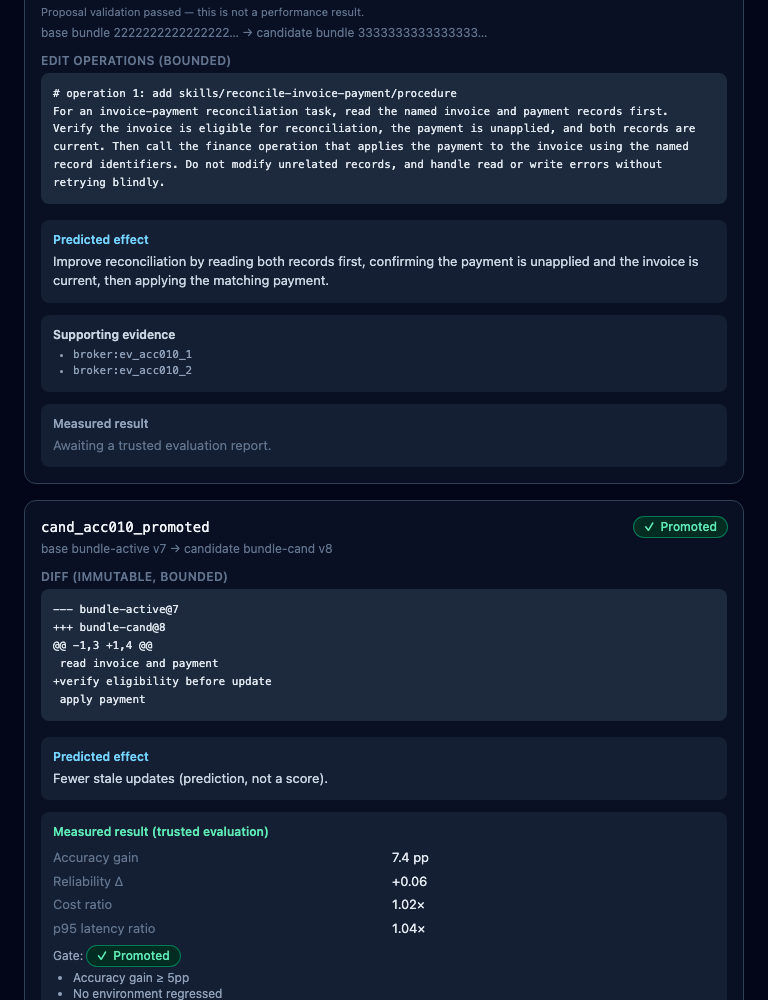
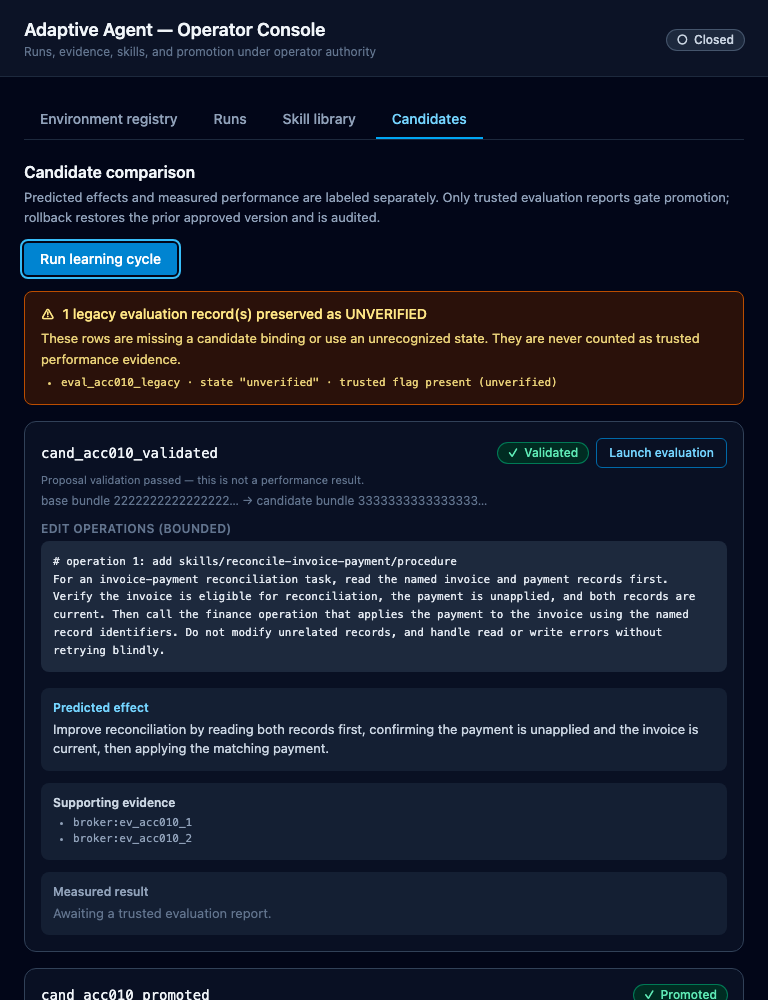
fix(console): single modal keydown listener verified; real ref wiring and exact browser focus assertions
- ui.Modal: panel listener add/remove REMOVED (one document keydown listener; the duplicate ran Tab wrap and Escape twice); activePanel leftover removed; read back verified
- CandidatesView: learningButtonRef now attached to the real LearningCycleButton button (ref prop threaded); LearningCycleModal forwards returnFocusTo into the inner Modal (read back verified)
- acc010-browser-qa: focus-return asserted by EXACT identity against the real learning-cycle button (isConnected + title as accessible name) after ONE trusted page.keyboard.press(Escape); process exits nonzero on failure; synthetic dispatches, escapeProbe and CDP getEventListeners diagnostics removed
- direct Modal unit test: Escape fires onClose exactly once; Tab wraps last->first; Shift+Tab wraps first->last (exact element assertions)
- 71/71 tests, tsc clean, build clean; live browser QA rerun green (widths 375/768/1440 no overflow; cancel success/failure; learning carry; verify {dialogGone:true, exactFocusReturn:true})

diff --git a/console/src/ui/qa-regressions.test.tsx b/console/src/ui/qa-regressions.test.tsx
@@ -161,6 +161,56 @@ describe("qa regressions: createRun recovery and honesty", () => {
     expect(await screen.findByText(/Proposal validation passed — this is not a performance result/)).toBeInTheDocument();
   });
 
+  it("Modal directly: Escape fires onClose exactly once; Tab wraps last->first and Shift+Tab first->last", async () => {
+    const { Modal } = await import("../components/ui");
+    const onClose = vi.fn();
+    const firstRef = { current: null as HTMLInputElement | null };
+    const lastRef = { current: null as HTMLButtonElement | null };
+    const { rerender } = render(
+      <Modal open title="Unit" onClose={onClose} returnFocusTo={{ current: null }}>
+        <form>
+          <input
+            aria-label="First field"
+            ref={(el) => {
+              firstRef.current = el;
+            }}
+          />
+          <button
+            ref={(el) => {
+              lastRef.current = el;
+            }}
+            onClick={onClose}
+          >
+            Last control
+          </button>
+        </form>
+      </Modal>,
+    );
+    const dialog = screen.getByRole("dialog", { name: "Unit" });
+    expect(dialog).toBeInTheDocument();
+
+    // focus the LAST control, press Tab once: must land on the FIRST field (single wrap)
+    lastRef.current?.focus();
+    await userEvent.setup().keyboard("{Tab}");
+    expect(firstRef.current).toHaveFocus();
+
+    // focus the FIRST control, press Shift+Tab once: must land on the LAST control
+    firstRef.current?.focus();
+    await userEvent.setup().keyboard("{Shift>}{Tab}{/Shift}");
+    expect(lastRef.current).toHaveFocus();
+
+    // Escape fires onClose EXACTLY once even if pressed twice (dialog closed -> listener gone)
+    await userEvent.setup().keyboard("{Escape}");
+    rerender(
+      <Modal open={false} title="Unit" onClose={onClose}>
+        <form />
+      </Modal>,
+    );
+    await userEvent.setup().keyboard("{Escape}");
+    await userEvent.setup().keyboard("{Escape}");
+    expect(onClose).toHaveBeenCalledTimes(1);
+  });
+
   it("Modal Escape closes exactly once and Tab wraps one step per press", async () => {
     // use the new-run dialog: onClose count observable via the dialog state
     const user = userEvent.setup();

diff --git a/console/src/components/ui.tsx b/console/src/components/ui.tsx
@@ -77,8 +77,8 @@ export function Modal({
     restoreRef.current = document.activeElement as HTMLElement | null;
     const panel = panelRef.current;
     // initial focus prefers the first text field (DOM order) over buttons
-    const activePanel = panel;
-    activePanel?.querySelector<HTMLElement>("textarea, input, select, button, [tabindex]")?.focus();
+    // initial focus prefers the first text field (DOM order) over buttons
+    panel?.querySelector<HTMLElement>("textarea, input, select, button, [tabindex]")?.focus();
 
     const onKey = (event: KeyboardEvent) => {
       if (event.key === "Escape") {
@@ -101,20 +101,14 @@ export function Modal({
         first.focus();
       }
     };
-    // Attach to BOTH the panel and the document. The panel listener covers
-    // keys pressed inside the focused dialog; the document listener covers
-    // synthetic/edge cases. Each effect removes exactly its own listeners.
-    activePanel?.addEventListener("keydown", onKey);
+    // ONE document-level listener: keydowns inside the focused dialog bubble
+    // here. A second (panel) listener would run the Tab wrap and Escape
+    // handling twice. The stable onCloseRef keeps the subscription per open.
     document.addEventListener("keydown", onKey);
     return () => {
-      activePanel?.removeEventListener("keydown", onKey);
       document.removeEventListener("keydown", onKey);
-      // restore focus to the invoking control. An explicitly marked
-      // focus-return target (set when the invoking control unmounts, e.g., a
-      // tab switch carried the action elsewhere) takes precedence; otherwise
-      // restore to the captured element when it is still connected.
-      // prefer the explicit return-focus target when provided and extant,
-      // then the element captured at open
+      // restore focus: prefer the explicit return-focus target when provided
+      // and still connected, then the element captured at open
       const explicit = returnFocusToRef.current?.current;
       if (explicit && explicit.isConnected) {
         explicit.focus();

diff --git a/console/src/views/CandidatesView.tsx b/console/src/views/CandidatesView.tsx
@@ -137,7 +137,7 @@ export function CandidatesView({
         </p>
       </div>
 
-      <LearningCycleButton busy={cycleBusy} onRun={() => { onRefreshRuns(); setCycleOpen(true); }} />
+      <LearningCycleButton busy={cycleBusy} buttonRef={learningButtonRef} onRun={() => { onRefreshRuns(); setCycleOpen(true); }} />
 
       {loading && <LoadingState label="Loading candidates…" />}
 
@@ -373,10 +373,11 @@ function renderEditOperations(cand: CandidateDiff): string {
     .join("\n\n");
 }
 
-function LearningCycleButton({ busy, onRun }: { busy: boolean; onRun: () => void }) {
+function LearningCycleButton({ busy, onRun, buttonRef }: { busy: boolean; onRun: () => void; buttonRef: React.MutableRefObject<HTMLButtonElement | null> }) {
   return (
     <div>
       <button
+        ref={buttonRef}
         type="button"
         onClick={onRun}
         disabled={busy}
@@ -413,7 +414,7 @@ function LearningCycleModal({
     if (open && preselectedRunId) setRunId(preselectedRunId);
   }, [open, preselectedRunId]);
   return (
-    <Modal open={open} title="Run learning cycle" onClose={onClose}>
+    <Modal open={open} title="Run learning cycle" onClose={onClose} returnFocusTo={returnFocusTo}>
       <form
         onSubmit={(e) => {
           e.preventDefault();
